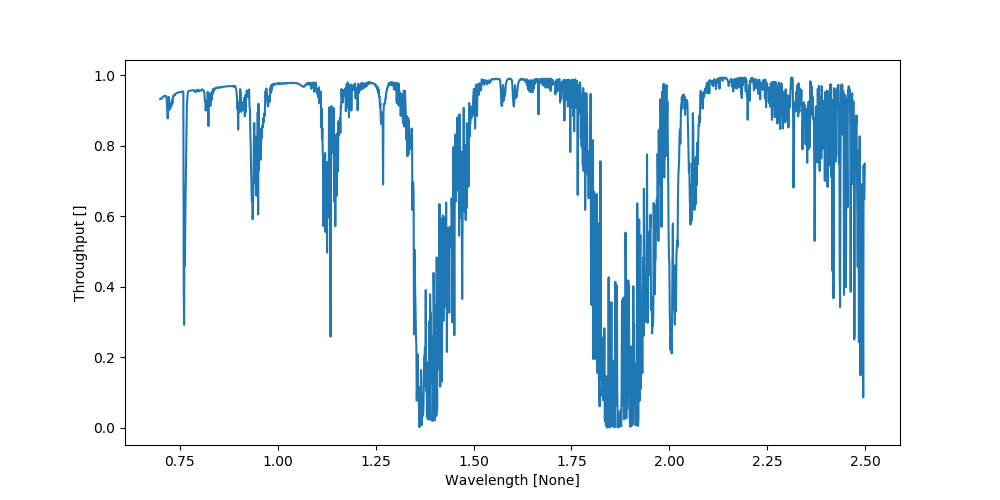
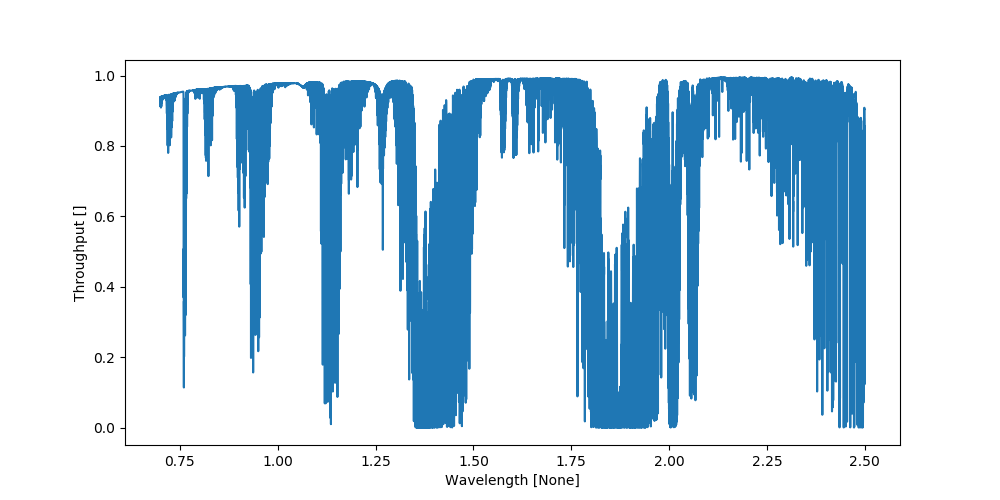
added spectral trace images

diff --git a/MICADO_instrument_packages_descriptions/code/generate_rst_pipeline.py b/MICADO_instrument_packages_descriptions/code/generate_rst_pipeline.py
@@ -48,7 +48,7 @@ def summary_cmds(opt_mgr, filename=None, rst_title_chars="_^#*+"):
 def make_micado_rst_files():
 
     all_modes = ["SCAO", "MCAO", "IMG_4mas", "IMG_1.5mas",   # "IMG_HCI",
-                 "SPEC_15000x50", "SPEC_3000x50", "SPEC_3000x20"]
+                 "SPEC_3000x50"]
 
     cmd = sim.UserCommands(use_instrument="MICADO", set_modes=all_modes)
     rc.__currsys__ = cmd

diff --git a/MICADO_instrument_packages_descriptions/rst/pipe_MICADO_SPEC.rst b/MICADO_instrument_packages_descriptions/rst/pipe_MICADO_SPEC.rst
@@ -109,14 +109,14 @@ ApertureMask: "spectroscopic_slit_aperture"
 *******************************************
 **Included by default**: ``True``
 
-**File Description**: Slit mask for the short, narrow slit (3 arcsec x 20 mas)
+**File Description**: Slit mask for the short, wide slit  (3 arcsec x 50 mas)
 
 **Class Description**: Only provides the on-sky window coords of the Aperture
 
 **Changes**:
 
 - 2019-07-10 (KL) Created the file
-- 2020-03-24 (KL) Changed geometry to 3000x20mas
+- 2020-03-24 (KL) Changed geometry to 3000x50mas
 
 Data
 ++++
@@ -127,10 +127,10 @@ Data
     ======= =======
        x       y   
     ======= =======
-    -1.5000 -0.0100
-     1.5000 -0.0100
-     1.5000  0.0100
-    -1.5000  0.0100
+    -1.5000 -0.0250
+     1.5000 -0.0250
+     1.5000  0.0250
+    -1.5000  0.0250
     ======= =======
 
 
@@ -166,24 +166,8 @@ Meta-data
 
 
 
-<SpectralTrace> "list of spectral order trace geometry on the focal plane" : [1.93, 2.46]um : Ext 2 : Aperture 0 : ImagePlane 0
-<SpectralTrace> "list of spectral order trace geometry on the focal plane" : [1.45, 1.85]um : Ext 3 : Aperture 0 : ImagePlane 0
-<SpectralTrace> "list of spectral order trace geometry on the focal plane" : [1.16, 1.48]um : Ext 4 : Aperture 0 : ImagePlane 0
-<SpectralTrace> "list of spectral order trace geometry on the focal plane" : [1.16, 1.39]um : Ext 5 : Aperture 0 : ImagePlane 0
-<SpectralTrace> "list of spectral order trace geometry on the focal plane" : [0.97, 1.23]um : Ext 6 : Aperture 0 : ImagePlane 0
-<SpectralTrace> "list of spectral order trace geometry on the focal plane" : [0.97, 1.23]um : Ext 7 : Aperture 0 : ImagePlane 0
-<SpectralTrace> "list of spectral order trace geometry on the focal plane" : [0.83, 1.05]um : Ext 8 : Aperture 0 : ImagePlane 0
-<SpectralTrace> "list of spectral order trace geometry on the focal plane" : [0.83, 1.05]um : Ext 9 : Aperture 0 : ImagePlane 0
-<SpectralTrace> "list of spectral order trace geometry on the focal plane" : [0.83, 0.92]um : Ext 10 : Aperture 0 : ImagePlane 0
-<SpectralTrace> "list of spectral order trace geometry on the focal plane" : [0.73, 0.92]um : Ext 11 : Aperture 0 : ImagePlane 0
-<SpectralTrace> "list of spectral order trace geometry on the focal plane" : [0.73, 0.92]um : Ext 12 : Aperture 0 : ImagePlane 0
-<SpectralTrace> "list of spectral order trace geometry on the focal plane" : [0.65, 0.82]um : Ext 13 : Aperture 0 : ImagePlane 0
-<SpectralTrace> "list of spectral order trace geometry on the focal plane" : [0.65, 0.82]um : Ext 14 : Aperture 0 : ImagePlane 0
-<SpectralTrace> "list of spectral order trace geometry on the focal plane" : [0.6, 0.74]um : Ext 15 : Aperture 0 : ImagePlane 0
-<SpectralTrace> "list of spectral order trace geometry on the focal plane" : [0.6, 0.73]um : Ext 16 : Aperture 0 : ImagePlane 0
-<SpectralTrace> "list of spectral order trace geometry on the focal plane" : [0.6, 0.67]um : Ext 17 : Aperture 0 : ImagePlane 0
-<SpectralTrace> "list of spectral order trace geometry on the focal plane" : [0.6, 0.67]um : Ext 18 : Aperture 0 : ImagePlane 0
-********************************************************************************************************************************************************************************************************************************************************************************************************************************************************************************************************************************************************************************************************************************************************************************************************************************************************************************************************************************************************************************************************************************************************************************************************************************************************************************************************************************************************************************************************************************************************************************************************************************************************************************************************************************************************************************************************************************************************************************************************************************************************************************************************************************************************************************************************************************************************************************************************************************************************************************************************************************************************************************************************************************************************************************************************************************************************************************************************************************************************************
+<SpectralTraceList> "micado_spectral_traces" : 17 traces
+********************************************************
 **Included by default**: ``True``
 
 **File Description**: list of spectral order trace geometry on the focal plane
@@ -197,42 +181,49 @@ Meta-data
 Data
 ++++
 
+.. figure:: micado_spectral_traces.png
+    :name: fig:micado_spectral_traces
+
+    
+
 Meta-data
 +++++++++
 ::
 
-              filename : !OBS.trace_file
-                  name : micado_spectral_traces
-           pixel_scale : 0.004
-           plate_scale : 0.2666666667
-          element_name : MICADO_SPEC
-          wave_colname : lam
-             s_colname : xi
-      col_number_start : 1
-         invalid_value : 0
-                SIMPLE : True
-                BITPIX : 8
-                 NAXIS : 0
-                EXTEND : True
-              FILETYPE : Spectral Layout Definition
-                AUTHOR : Oliver Czoske
-                  DATE : 2018-09-16
-                SOURCE : Frank Grupp
-              ORIGDATE : 2018-06-29
-                STATUS : Design PDR
-                  ECAT : 1
-                 EDATA : 2
-              DESCRIPT : Maps spectral traces from long slit aperture to detector image plane
-              DATE_CRE : 2018-06-29
-              DATE_MOD : 2019-09-16
-               HISTORY : 2019-09-16 : (KL) Added aperture-imagePlane table to EXT 1
-               z_order : [70, 270]
-               include : True
-              wave_min : !SIM.spectral.wave_min
-              wave_mid : !SIM.spectral.wave_mid
-              wave_max : !SIM.spectral.wave_max
-             x_colname : x
-             y_colname : y
-    center_on_wave_mid : False
-                 dwave : 0.002
+                filename : !OBS.trace_file
+                    name : micado_spectral_traces
+             pixel_scale : 0.004
+             plate_scale : 0.2666666667
+            element_name : MICADO_SPEC
+            wave_colname : lam
+               s_colname : xi
+        col_number_start : 1
+           invalid_value : 0
+                  SIMPLE : True
+                  BITPIX : 8
+                   NAXIS : 0
+                  EXTEND : True
+                FILETYPE : Spectral Layout Definition
+                  AUTHOR : Oliver Czoske
+                    DATE : 2018-09-16
+                  SOURCE : Frank Grupp
+                ORIGDATE : 2018-06-29
+                  STATUS : Design PDR
+                    ECAT : 1
+                   EDATA : 2
+                DESCRIPT : Maps spectral traces from long slit aperture to detector image plane
+                DATE_CRE : 2018-06-29
+                DATE_MOD : 2019-09-16
+                 HISTORY : 2019-09-16 : (KL) Added aperture-imagePlane table to EXT 1
+                 z_order : [70, 270]
+                 include : True
+                wave_min : !SIM.spectral.wave_min
+                wave_mid : !SIM.spectral.wave_mid
+                wave_max : !SIM.spectral.wave_max
+               x_colname : x
+               y_colname : y
+      center_on_wave_mid : False
+                   dwave : 0.002
+     report_plot_include : True
+    report_table_include : False
 

diff --git a/MICADO_instrument_packages_descriptions/rst/sci_summary.rst b/MICADO_instrument_packages_descriptions/rst/sci_summary.rst
@@ -4,23 +4,22 @@ Summary of Effects in Optical Elements:
 .. table::
     :name: tbl:effects_summary
 
-    =================== ================================ ======================== ======== ===================
-          element                     name                        class           included       z_orders     
-    =================== ================================ ======================== ======== ===================
-              armazones armazones_atmo_skycalc_ter_curve          SkycalcTERCurve     True          [112, 512]
-             MICADO_Sci             micado_common_optics                 TERCurve     True      [10, 110, 510]
-             MICADO_Sci                     filter_wheel              FilterWheel     True     [124, 224, 524]
-    micado_sci_detector           micado_detector_window           DetectorWindow     True [90, 290, 390, 490]
-    micado_sci_detector                    h4rg_qe_curve   QuantumEfficiencyCurve     True          [113, 513]
-    micado_sci_detector                  exposure_action           SummedExposure     True               [860]
-    micado_sci_detector                     dark_current              DarkCurrent     True               [830]
-    micado_sci_detector                       shot_noise                ShotNoise     True               [820]
-    micado_sci_detector          h4rg_detector_linearity           LinearityCurve    False               [840]
-    micado_sci_detector                    readout_noise PoorMansHxRGReadoutNoise     True               [811]
-            MICADO_SPEC           micado_adjustable_slit  RectangularApertureMask     True      [80, 280, 380]
-            MICADO_SPEC        spectral_trace_3000x50mas        SpectralTraceList     True           [70, 270]
-            MICADO_SCAO            scao_relay_optics_ter                 TERCurve     True      [10, 110, 510]
-            MICADO_SCAO                   scao_const_psf        AnisocadoConstPSF     True           [42, 652]
-            MICADO_MCAO                    maory_mms_ter                 TERCurve     True      [10, 110, 510]
-            MICADO_MCAO                  maory_const_psf        AnisocadoConstPSF     True           [42, 652]
-    =================== ================================ ======================== ======== ===================
+    =================== ========================= ======================== ======== ===================
+          element                  name                    class           included       z_orders     
+    =================== ========================= ======================== ======== ===================
+             MICADO_Sci      micado_common_optics                 TERCurve     True      [10, 110, 510]
+             MICADO_Sci              filter_wheel              FilterWheel     True     [124, 224, 524]
+    micado_sci_detector    micado_detector_window           DetectorWindow     True [90, 290, 390, 490]
+    micado_sci_detector             h4rg_qe_curve   QuantumEfficiencyCurve     True          [113, 513]
+    micado_sci_detector           exposure_action           SummedExposure     True               [860]
+    micado_sci_detector              dark_current              DarkCurrent     True               [830]
+    micado_sci_detector                shot_noise                ShotNoise     True               [820]
+    micado_sci_detector   h4rg_detector_linearity           LinearityCurve    False               [840]
+    micado_sci_detector             readout_noise PoorMansHxRGReadoutNoise     True               [811]
+            MICADO_SPEC    micado_adjustable_slit  RectangularApertureMask     True      [80, 280, 380]
+            MICADO_SPEC spectral_trace_3000x50mas        SpectralTraceList     True           [70, 270]
+            MICADO_SCAO     scao_relay_optics_ter                 TERCurve     True      [10, 110, 510]
+            MICADO_SCAO            scao_const_psf        AnisocadoConstPSF     True           [42, 652]
+            MICADO_MCAO             maory_mms_ter                 TERCurve     True      [10, 110, 510]
+            MICADO_MCAO           maory_const_psf        AnisocadoConstPSF     True           [42, 652]
+    =================== ========================= ======================== ======== ===================

diff --git a/MICADO_instrument_packages_descriptions/rst/sci_MICADO_SPEC.rst b/MICADO_instrument_packages_descriptions/rst/sci_MICADO_SPEC.rst
@@ -94,8 +94,8 @@ Meta-data
 
 
 
-<SpectralTrace> "" : [0.75, 2.5]um : Ext 2 : Aperture 0 : ImagePlane 0
-**********************************************************************
+<SpectralTraceList> "spectral_trace_3000x50mas" : 1 traces
+**********************************************************
 **Included by default**: ``True``
 
 **File Description**: 
@@ -109,34 +109,41 @@ Meta-data
 Data
 ++++
 
+.. figure:: spectral_trace_3000x50mas.png
+    :name: fig:spectral_trace_3000x50mas
+
+    
+
 Meta-data
 +++++++++
 ::
 
-              filename : TRACE_SCI_3arcsec.fits
-                  name : spectral_trace_3000x50mas
-                   psf : {'wavelength': 'Ks', 'strehl': 0.4}
-              aperture : {'x': 0, 'y': 0, 'width': 3, 'height': 0.05}
-          element_name : MICADO_SPEC
-    center_on_wave_mid : True
-                SIMPLE : True
-                BITPIX : 8
-                 NAXIS : 0
-                EXTEND : True
-                  ECAT : 1
-                 EDATA : 2
-               z_order : [70, 270]
-               include : True
-           pixel_scale : !INST.pixel_scale
-           plate_scale : !INST.plate_scale
-              wave_min : !SIM.spectral.wave_min
-              wave_mid : !SIM.spectral.wave_mid
-              wave_max : !SIM.spectral.wave_max
-             x_colname : x
-             y_colname : y
-             s_colname : s
-          wave_colname : wavelength
-      col_number_start : 0
-                 dwave : 0.002
-         invalid_value : None
+                filename : TRACE_SCI_3arcsec.fits
+                    name : spectral_trace_3000x50mas
+                     psf : {'wavelength': 'Ks', 'strehl': 0.4}
+                aperture : {'x': 0, 'y': 0, 'width': 3, 'height': 0.05}
+            element_name : MICADO_SPEC
+      center_on_wave_mid : True
+                  SIMPLE : True
+                  BITPIX : 8
+                   NAXIS : 0
+                  EXTEND : True
+                    ECAT : 1
+                   EDATA : 2
+                 z_order : [70, 270]
+                 include : True
+             pixel_scale : !INST.pixel_scale
+             plate_scale : !INST.plate_scale
+                wave_min : !SIM.spectral.wave_min
+                wave_mid : !SIM.spectral.wave_mid
+                wave_max : !SIM.spectral.wave_max
+               x_colname : x
+               y_colname : y
+               s_colname : s
+            wave_colname : wavelength
+        col_number_start : 0
+                   dwave : 0.002
+           invalid_value : None
+     report_plot_include : True
+    report_table_include : False
 

diff --git a/MICADO_instrument_packages_descriptions/rst/pipe_summary.rst b/MICADO_instrument_packages_descriptions/rst/pipe_summary.rst
@@ -37,10 +37,4 @@ Summary of Effects in Optical Elements:
               MICADO_SPEC                 spec_mode_optics                     SurfaceList     True      [20, 120, 520]
               MICADO_SPEC      spectroscopic_slit_aperture                    ApertureMask     True      [80, 280, 380]
               MICADO_SPEC           micado_spectral_traces               SpectralTraceList     True           [70, 270]
-              MICADO_SPEC                 spec_mode_optics                     SurfaceList     True      [20, 120, 520]
-              MICADO_SPEC      spectroscopic_slit_aperture                    ApertureMask     True      [80, 280, 380]
-              MICADO_SPEC           micado_spectral_traces               SpectralTraceList     True           [70, 270]
-              MICADO_SPEC                 spec_mode_optics                     SurfaceList     True      [20, 120, 520]
-              MICADO_SPEC      spectroscopic_slit_aperture                    ApertureMask     True      [80, 280, 380]
-              MICADO_SPEC           micado_spectral_traces               SpectralTraceList     True           [70, 270]
     ===================== ================================ =============================== ======== ===================

diff --git a/MICADO_instrument_packages_descriptions/rst/pipe_MAORY.rst b/MICADO_instrument_packages_descriptions/rst/pipe_MAORY.rst
@@ -49,6 +49,7 @@ SurfaceList: "maory_surface_list"
 - 2019-01-28 (KL) Fixed YAML format in meta data
 - 2020-06-22 (KL) Updated file to match the MMS configuration from Carmelo
 - 2020-08-17 (KL) Pegged temperature to atmosphere
+- 2020-12-03 (KL)
 
 Data
 ++++
@@ -70,7 +71,7 @@ Data
           M8  0.85   0.0   0.0 !ATMO.temperature   reflection   TER_MAORY_mirror_silver.dat
          DM9  0.75   0.0   0.0 !ATMO.temperature   reflection TER_MAORY_mirror_mgf2agal.dat
         DM10  0.75   0.0   0.0 !ATMO.temperature   reflection TER_MAORY_mirror_mgf2agal.dat
-       Dichr   0.6   0.0   0.0 !ATMO.temperature   reflection    TER_MAORY_lgs_dichroic.dat
+    Dichroic   0.6   0.0   0.0 !ATMO.temperature   reflection    TER_MAORY_lgs_dichroic.dat
          M10   0.6   0.0   0.0 !ATMO.temperature   reflection   TER_MAORY_mirror_silver.dat
          M11   0.8   0.0  45.0 !ATMO.temperature   reflection   TER_MAORY_mirror_silver.dat
          M12   0.8   0.0   0.0 !ATMO.temperature   reflection   TER_MAORY_mirror_silver.dat
